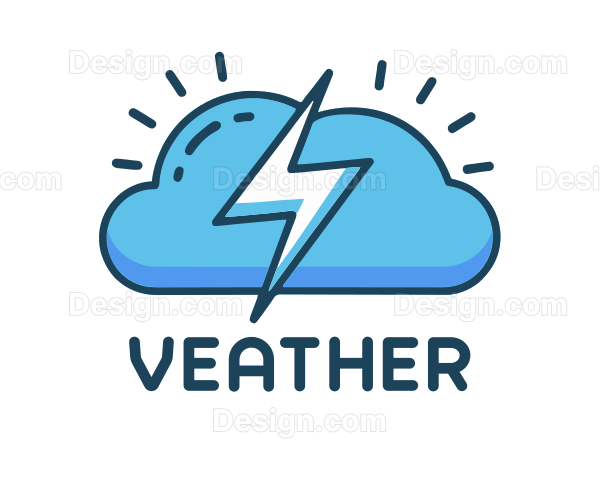
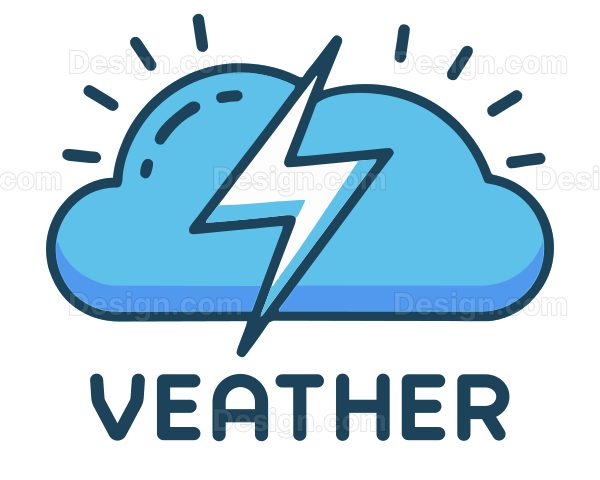
theme and query

diff --git a/src/components/header.jsx b/src/components/header.jsx
@@ -1,0 +1,32 @@
+import React from 'react'
+import {Link} from 'react-router-dom'
+import { useTheme } from './ui/theme-provider'
+import { Sun } from 'lucide-react';
+import { Moon } from 'lucide-react';
+
+const Header = () => {
+  const{theme,setTheme}=useTheme();
+  const isDark = theme === 'dark';
+
+  return (
+    <header className='sticky top-0 z-50 w-full border-b bg-background/95 supports-backdrop-filter:bg-background/60 backdrop-blur py-2'>
+    <div className='container mx-auto flex h-16 items-center justify-between px-4'>
+      <Link to={"/"}>
+      <img src={isDark?"/2.png":"/1.png"} alt="veather logo" className='h-14'/>
+      </Link>
+      <div>
+
+        <div onClick={()=>setTheme(isDark?"light":"dark")} className={`flex items-center cursor-pointer transition-transform duration-500 ${isDark?"rotate-180":"rotate-0"}`}>
+          {isDark?(
+            <Sun className='h-6 w-6 text-yellow-500 rotate-0 trasition-all'/>
+          ):(
+            <Moon className='h-6 w-6 text-blue-500 rotate-0 transition-all'/>
+          )}
+        </div>
+      </div>
+    </div>
+    </header>
+  )
+}
+
+export default Header

diff --git a/src/App.jsx b/src/App.jsx
@@ -1,15 +1,19 @@
 import './App.css'
 import { BrowserRouter ,Route ,Routes} from 'react-router-dom'
-import { Button } from './components/ui/button'
-import  Layout  from './components/ui/layout'
+import  Layout  from './components/layout'
 import { ThemeProvider } from './components/ui/theme-provider'
 import WeatherDashboard from './pages/weather-dashboard'
 import CityPage from './pages/city-page'
+import { ReactQueryDevtools } from '@tanstack/react-query-devtools'
+import { QueryClient, QueryClientProvider } from '@tanstack/react-query'
 
 function App() {
 
+  const queryClient = new QueryClient
+
   return (
     <>
+    <QueryClientProvider client={queryClient}>  
       <BrowserRouter>
       <ThemeProvider defaultTheme='dark'> 
       <Layout>
@@ -20,7 +24,8 @@ function App() {
       </Layout>
       </ThemeProvider>
       </BrowserRouter>
-      
+      <ReactQueryDevtools initialIsOpen={false}/>
+    </QueryClientProvider>  
     </>
   )
 }

diff --git a/index.html b/index.html
@@ -2,7 +2,7 @@
 <html lang="en">
   <head>
     <meta charset="UTF-8" />
-    <link rel="icon" type="image/svg+xml" href="/vite.svg" />
+    <link rel="icon" type="image/svg+xml" href="/favicon.png" />
     <meta name="viewport" content="width=device-width, initial-scale=1.0" />
     <title>veather</title>
   </head>
